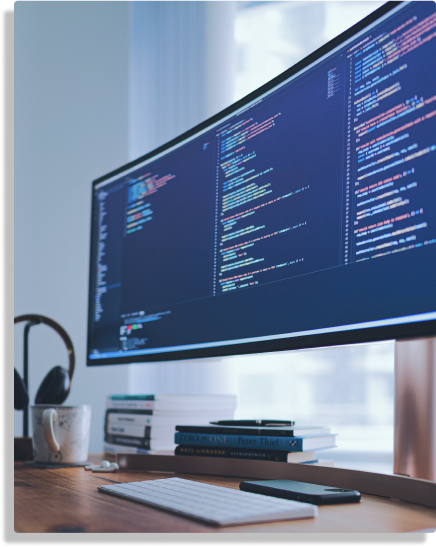
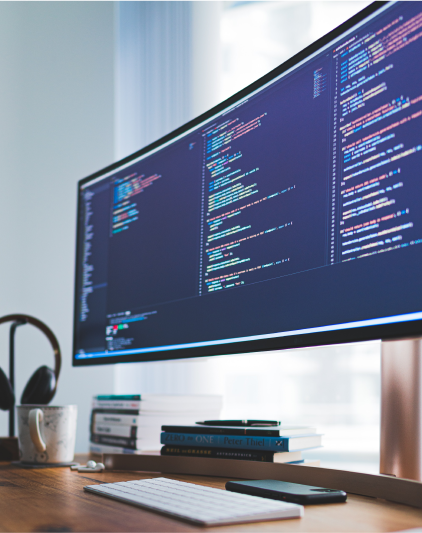
finishing up about us area

diff --git a/src/components/local/about/about.module.scss b/src/components/local/about/about.module.scss
@@ -13,4 +13,12 @@
             line-height: 1;
         }
     }
+
+    &__image {
+
+        > div {
+            box-shadow: -10px 10px 4px rgba(0, 0, 0, 0.25);
+            border-radius: $border__radius;  
+        }
+    }
 }
